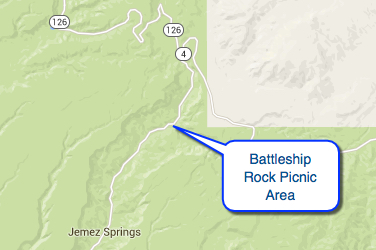
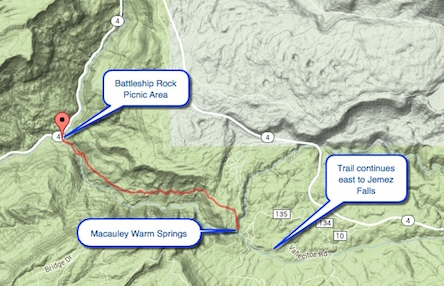
added page for Battleship Rock / Macauley Hot Springs

diff --git a/pages/Battleship.html b/pages/Battleship.html
@@ -1,0 +1,79 @@
+<!DOCTYPE html>
+<html>
+
+<head>
+  <!-- CHANGE 'HIKE BRIEF' BELOW' -->
+	<title>Battleship Rock</title>
+	<meta charset="utf-8" />
+	<meta name="language"
+		content="EN" />
+	<meta name="description"
+		content="Details about the Battleship Rock hike" />
+	<meta name="author"
+		content="Ken Cowles" />
+	<meta name="robots"
+		content="nofollow" />
+	<link href="../styles/960_16_col.css"
+		type="text/css" rel="stylesheet" />
+	<link href="../styles/ppages.css"
+		type="text/css" rel="stylesheet" />
+</head>
+
+<body>
+	<!-- IF NOT USING 960px WIDTH, eliminate div class below & "grid_16" classes -->
+	<div class="container_16 clearfix">
+  <!-- CHANGE page_title below -->
+		<p id="page_title" class="grid_16">Battleship Rock / Macauley Hot Springs</p>
+		<div id="row0" class="ImgRow">
+			<img id="pic0" height="314" width="419" src="https://c8.staticflickr.com/8/7738/27265957551_95d61ab9c2_n.jpg" alt="From Battleship Rock trailhead" />
+			<img id="pic1" height="314" width="235" src="https://c7.staticflickr.com/8/7429/27061048550_a930c03b38_n.jpg" alt="Obsidian everywhere!" />
+			<img id="pic2" height="314" width="235" src="https://c1.staticflickr.com/8/7631/27302944856_2cbc6c3843_n.jpg" alt="Battleship from higher on the trail" />
+		</div>
+		<div id="row1" class="ImgRow">
+			<img id="pic3" height="364" width="547" src="https://c4.staticflickr.com/8/7385/26729856443_9258ef17ec_n.jpg" alt="Warm springs attract all" />
+			<img id="pic4" height="364" width="273" src="https://c5.staticflickr.com/8/7702/27238999812_8ebe094339_n.jpg" alt="A warm showering falls at Spring2" />
+		</div>
+		<div id="row2" class="ImgRow">
+			<img id="pic5" height="286" width="430" src="https://c6.staticflickr.com/8/7120/27265954781_0c0140425d_n.jpg" alt="A third spring downstream" />
+			<img id="noCapImg6" height="286" width="430" src="../images/BattleshipMap.jpg" alt="Non-Captioned" />
+		</div>
+		<div class="captionList">
+			<ol>
+				<li>Sep 5, 2006: From Battleship Rock trailhead</li>
+				<li>Sep 5, 2006: Obsidian everywhere!</li>
+				<li>Sep 5, 2006: Battleship from higher on the trail</li>
+				<li>May 14, 2010: Warm springs attract all</li>
+				<li>Sep 5, 2006: A warm showering falls at Spring2</li>
+				<li>May 14, 2010: A third spring downstream</li>
+			</ol>
+		</div>
+		<div class="lnkList">
+			<ol>
+				<li>https://www.flickr.com/photos/139088815@N08/27265957551/in/album-72157669063455305</li>
+				<li>https://www.flickr.com/photos/139088815@N08/27061048550/in/album-72157669063455305</li>
+				<li>https://www.flickr.com/photos/139088815@N08/27302944856/in/album-72157669063455305</li>
+				<li>https://www.flickr.com/photos/139088815@N08/26729856443/in/album-72157669063455305</li>
+				<li>https://www.flickr.com/photos/139088815@N08/27238999812/in/album-72157669063455305</li>
+				<li>https://www.flickr.com/photos/139088815@N08/27265954781/in/album-72157669063455305</li>
+			</ol>
+		</div>
+		<p id="hikeInfo" class="grid_16">Battleship Rock is a picnic area north of
+		Jemez Springs on Highway 4, which provides access to Forest Trail 137, East Fork
+		Jemez River. The trail proceeds upward about 500 ft and 2 miles to Macauley Warm
+		Springs, the destination for most. It continues past the warm springs to Highway 4
+		north, near Jemez Falls. There are actually three warm springs: the first is shallow
+		and less ideal for immersing, though great for young children; the second is the
+		most popular and inviting and includes a bit of a short falls; the third is 
+		not far downstream and less appropriate for soaking. While there are some online
+		sites with YouTube videos, there are not many great references the author detected.
+		Two other sources which contains some information are the books: <em>Hiking New
+		Mexico</em> by Laurence Parent, and <em>Guide to the Jemez Mountain Trail</em> by
+		Judith Ann Isaacs.</p>
+	</div><!-- end of container 16 -->
+	<div class="popupCap"></div>
+	
+	<script src="../scripts/jquery-1.12.1.js"></script>
+	<script src="../scripts/ppages.js"></script>
+</body>
+
+</html>

diff --git a/index.html b/index.html
@@ -253,6 +253,15 @@
                                         <td><a href="https://www.flickr.com/photos/139088815@N08/albums/72157664469121925" target="_blank">Corrales Acequias</a></td>
                                         <td><a href="pages/Acequia.html" target="_blank">Corrales Acequia Walk</a></td>
                                 </tr>
+                          <tr>
+                                        <td>Jemez Springs</td>
+                                        <td>Battleship Rock</td>
+                                        <td>4.0 miles</td>
+                                        <td>500 ft</td>
+                                        <td>Medium</td>
+                                        <td><a href="https://www.flickr.com/photos/139088815@N08/albums/72157669063455305" target="_blank">Battleship Album</a></td>
+                                        <td><a href="pages/Battleship.html" target="_blank">Battleship Rock Hike</a></td>
+                                </tr>
 			</tbody>
 		</table>
 </div>
